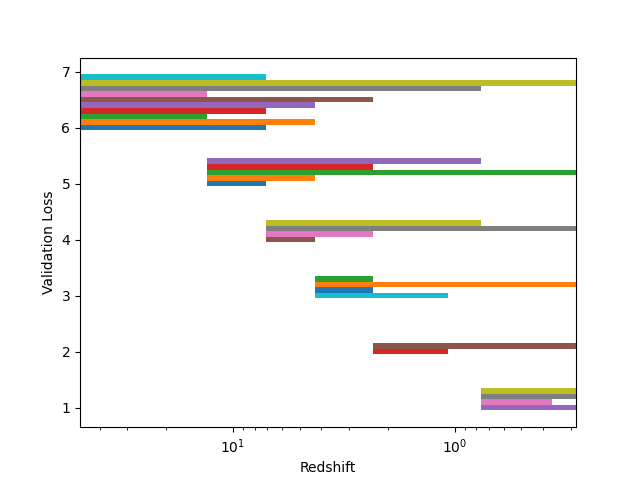
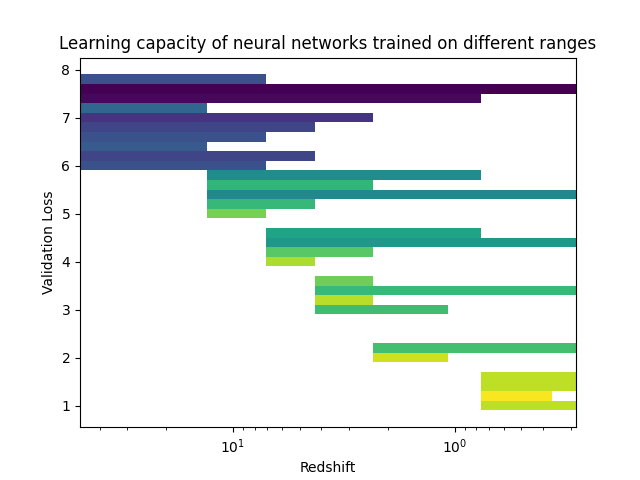
cross correlation probably a good metric

diff --git a/src/compare_steps.py b/src/compare_steps.py
@@ -1,11 +1,12 @@
 import jax.numpy as jnp
-import pandas as pd
+import numpy as np
 import sys
-from config import load_config
 import matplotlib.pyplot as plt
 import os 
 import nn
 import jax
+from matplotlib.cm import get_cmap
+import matplotlib as mpl 
 
 def main(argv) -> None:
 
@@ -46,7 +47,7 @@ def main(argv) -> None:
         validation_loss = training_stats['stepwise_val_loss']
 
         configs.append(config)
-        losses.append(validation_loss)
+        losses.append(jnp.array(validation_loss).max() - jnp.array(validation_loss).min())
         redshift = index_to_redshift[config.file_index_start]
         red_starts.append(redshift)
 
@@ -57,7 +58,13 @@ def main(argv) -> None:
 
     plots_in_bin = jnp.zeros(bins.shape[0] + 1)
 
-    width = 0.1
+    losses = jnp.array(losses)
+    min_loss = losses.min()
+    max_loss = losses.max()
+
+    cmap = get_cmap('viridis')
+
+    height = 0.2
 
     for i in range(len(red_starts)):
         config = configs[i]
@@ -66,11 +73,18 @@ def main(argv) -> None:
         start_red = index_to_redshift[config.file_index_start]
         end_red = index_to_redshift[config.file_index_start + config.file_index_stride[0]]
 
+        loss = (loss - min_loss) / max_loss
+
+        print(loss)
+        print(start_red)
+        print(end_red)
+
         plt.barh(
-            y = start_index + plots_in_bin[start_index] * width,
+            y = start_index + plots_in_bin[start_index] * height,
             width = end_red - start_red,
             left = start_red,
-            height = width,
+            height = height,
+            color = cmap(loss**(1/2)),
             label=i)
         
         plots_in_bin = plots_in_bin.at[start_index].add(1)
@@ -78,11 +92,21 @@ def main(argv) -> None:
     print(plots_in_bin)
 
     plt.gca().invert_xaxis()
+    plt.title("Learning capacity of neural networks trained on different ranges")
     plt.xscale("log")
     plt.xlabel("Redshift")
     plt.ylabel("Starting Index")
+
+    norm = mpl.colors.Normalize(vmin=0, vmax=1) 
+    
+    # creating ScalarMappable 
+    sm = plt.cm.ScalarMappable(cmap=cmap, norm=norm) 
+    sm.set_array([]) 
+    
+    plt.colorbar(sm, ticks=np.linspace(0, 2, 8)) 
+
+    plt.yticks([])
    
-    plt.ylabel("Validation Loss")
 
     plt.savefig("img/ranes.png")
 

diff --git a/src/train.py b/src/train.py
@@ -142,7 +142,8 @@ def main(argv) -> None:
 
     now = datetime.now()
     datetime_str = now.strftime("%Y%m%d_%H%M%S")
-    filename =f"{config.model_dir}/model_{datetime_str}.eqx"
+    filename =f"{config.model_dir}/model_{config.file_index_stride[0]}_{config.file_index_start}.eqx"
+    # filename =f"{config.model_dir}/model_{config.file_index_stride[0]}_{datetime_str}.eqx"
     nn.save_sequential_model(
         filename, 
         config._asdict(), 
